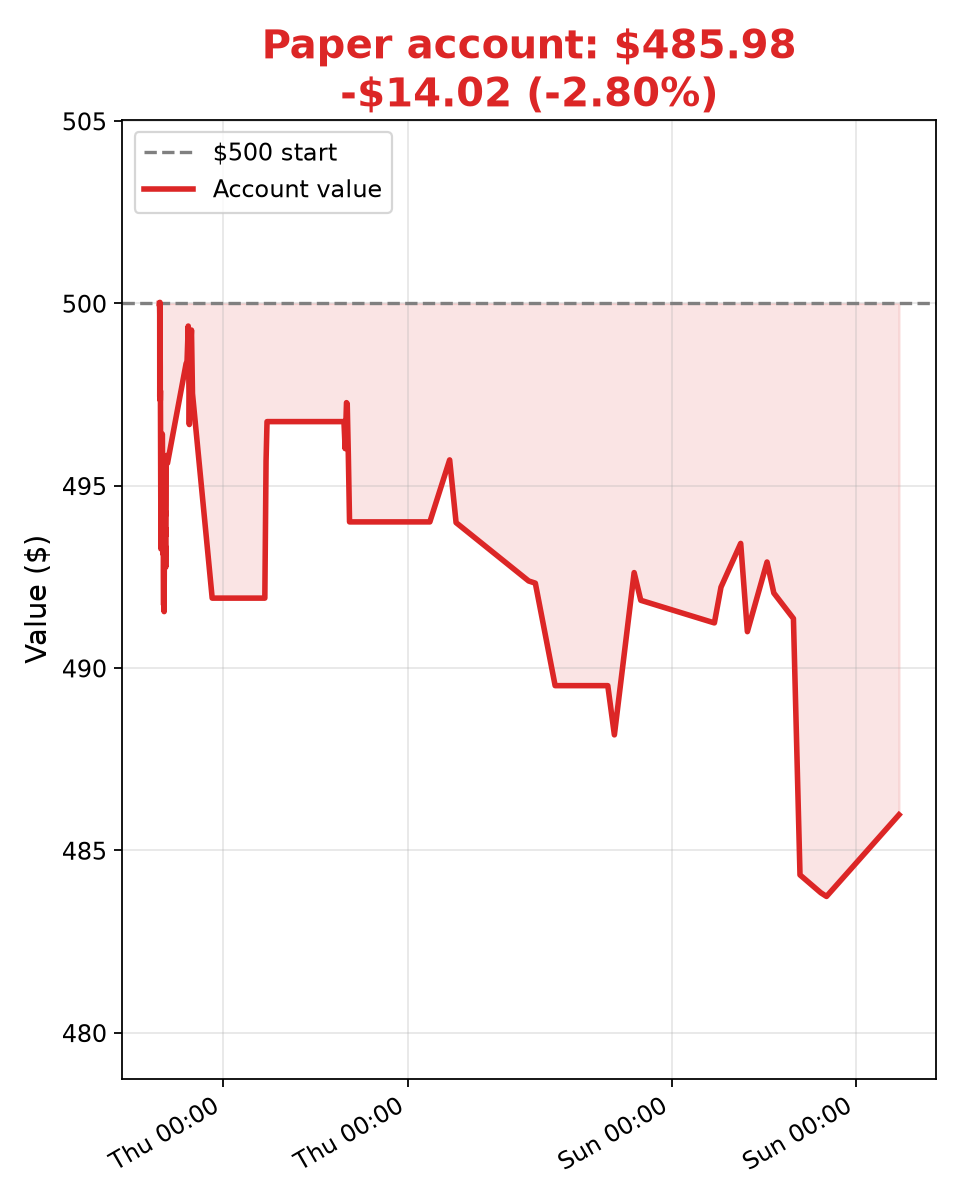
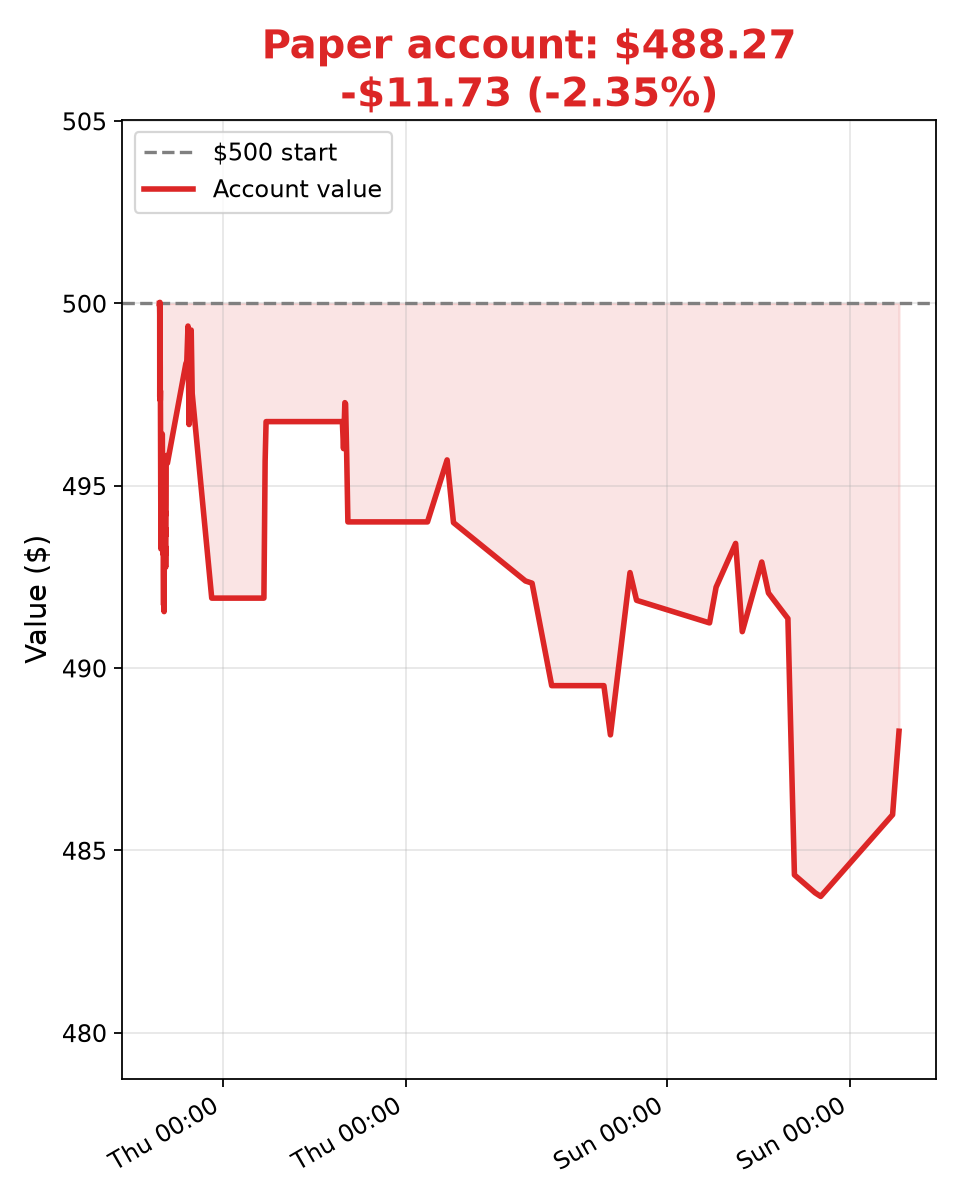
Update 2026-11-09T20:48:42Z

diff --git a/ledger.md b/ledger.md
@@ -257,3 +257,4 @@
 - 2026-11-06T15:44:53Z — total $483.84, cash $360.91 (swing check, 9:42 AM CT, no trade; LLY 1365.94 (−1.7% vs entry), day low 1333.22 > stop 1330, stop held; SPY 738.6 above 200d 727.7, below 50d 765.2 — regime OK but weak, no new buys; lone APP 50d breakout 49% off 52w high on 0.56x vol — skipped)
 - 2026-11-06T20:54:42Z — total $483.74, cash $360.91 (swing check, 2:54 PM CT, no trade; LLY 1364.82 (−1.8% vs entry), day low 1333.22 > stop 1330, stop held; SPY 735.5 above 200d 727.7, below 50d 765.2 — regime OK but weak, no new buys; lone APP 50d breakout 48% off 52w high on 1.91x vol — skipped)
 - 2026-11-09T14:54:08Z — total $485.98, cash $360.91 (swing check, 8:54 AM CT, no trade; LLY 1389.65 (0.0% vs entry), day low 1364.6 > stop 1330, stop held; SPY 747.7 above 200d 728.0, below 50d 764.8 — regime OK but weak, no new buys; AMZN 50d breakout 0.29x vol, APP 46% off high — skipped)
+- 2026-11-09T20:48:41Z — total $488.27, cash $360.91 (swing check, 2:48 PM CT, no trade; LLY 1415.14 (+1.8% vs entry), day low 1364.6 > stop 1330, stop held; SPY 754.5 above 200d 728.0, below 50d 764.9 — regime OK but weak, no new buys; TMDX/APP 50d breakouts 40–45% off 52w highs, AMZN 0.89x vol — skipped)
